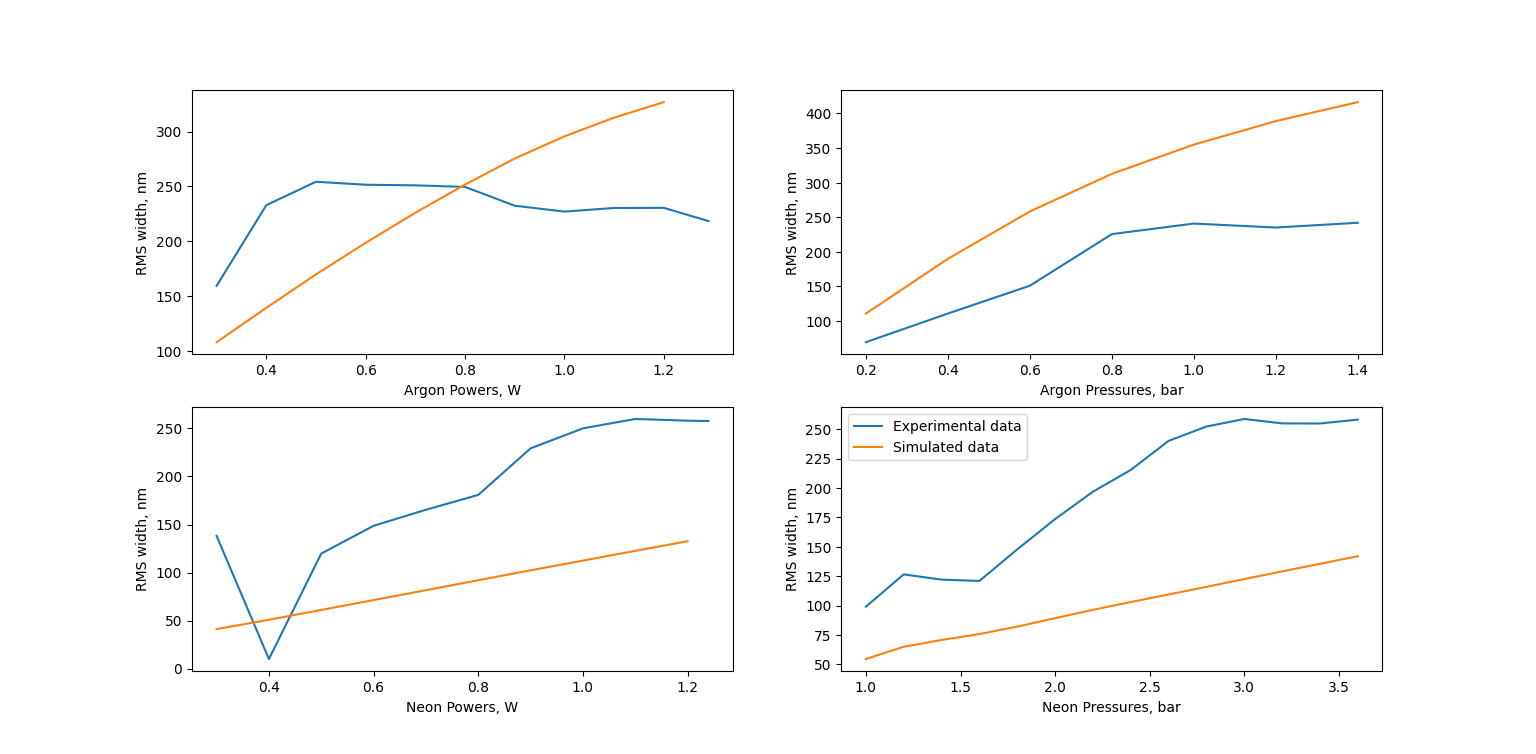
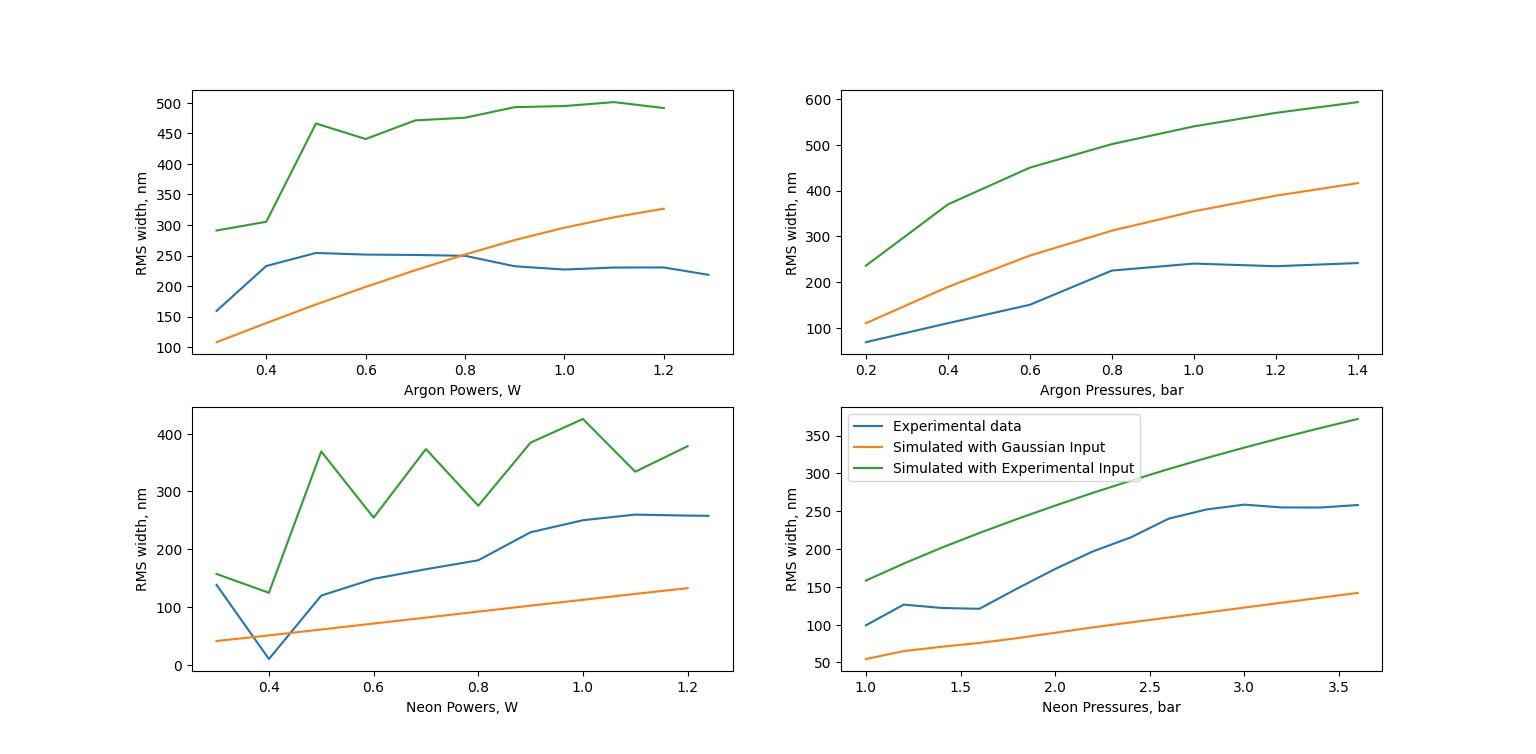
compared widths for simulated and experimental data

diff --git a/HCF sim/Python/experiments/simulations/compare_widths.py b/HCF sim/Python/experiments/simulations/compare_widths.py
@@ -1,7 +1,7 @@
 import sys
 import matplotlib.pyplot as plt
 import pandas as pd
-sys.path.append('C:\\Users\\iammo\\Documents\\Optimising-Field-Synthesiser\\HCF sim\\Python\\building datasets\\')
+sys.path.append('C:\\Users\\iammo\\Documents\\Optimising-Field-Synthesiser\\HCF sim\\Python\\building_datasets\\')
 from rms_width import *
 
 filepath = "C:\\Users\\iammo\\Documents\\Optimising-Field-Synthesiser\\HCF sim\\Python\\experiments\\"
@@ -143,11 +143,17 @@ Ne_sim_gauss_PowerScan_widths = []
 Ar_sim_gauss_PressureScan_widths = []
 Ne_sim_gauss_PressureScan_widths = []
 
+Ar_sim_pulse_PowerScan_widths = []
+Ne_sim_pulse_PowerScan_widths = []
+Ar_sim_pulse_PressureScan_widths = []
+Ne_sim_pulse_PressureScan_widths = []
+
 Ar_sim_powers = [0.3, 0.4, 0.5, 0.6, 0.7, 0.8, 0.9, 1.0, 1.1, 1.2]
 Ne_sim_powers = [0.3, 0.4, 0.5, 0.6, 0.7, 0.8, 0.9, 1.0, 1.1, 1.2]
 Ar_sim_pressures = [0.2, 0.4, 0.6, 0.8, 1.0, 1.2, 1.4]
 Ne_sim_pressures = [1.0, 1.2, 1.4, 1.6, 1.8, 2.0, 2.2, 2.4, 2.6, 2.8, 3.0, 3.2, 3.4, 3.6]
 
+# Gaussian input simulations
 # Argon power scan
 df = pd.read_csv(filepath+"simulations\\data\\gaussian_input\\Ar_PowerScan_0.3")
 Ar_sim_gauss_PowerScan_widths.append(rms_width(df.iloc[:,0], df.iloc[:,1]))
@@ -235,8 +241,100 @@ df = pd.read_csv(filepath+"simulations\\data\\gaussian_input\\Ne_PressureScan_3.
 Ne_sim_gauss_PressureScan_widths.append(rms_width(df.iloc[:,0], df.iloc[:,1]))
 df = pd.read_csv(filepath+"simulations\\data\\gaussian_input\\Ne_PressureScan_3.4")
 Ne_sim_gauss_PressureScan_widths.append(rms_width(df.iloc[:,0], df.iloc[:,1]))
-df = pd.read_csv(filepath+"simulations\\data\\gaussian_input\\gaussian_input\\Ne_PressureScan_3.6")
+df = pd.read_csv(filepath+"simulations\\data\\gaussian_input\\Ne_PressureScan_3.6")
 Ne_sim_gauss_PressureScan_widths.append(rms_width(df.iloc[:,0], df.iloc[:,1]))
+
+
+# Experimental input pulse simulations
+# Argon power scan
+df = pd.read_csv(filepath+"simulations\\data\\pulse_input\\Ar_PowerScan_0.3")
+Ar_sim_pulse_PowerScan_widths.append(rms_width(df.iloc[:,0], df.iloc[:,1]))
+df = pd.read_csv(filepath+"simulations\\data\\pulse_input\\Ar_PowerScan_0.4")
+Ar_sim_pulse_PowerScan_widths.append(rms_width(df.iloc[:,0], df.iloc[:,1]))
+df = pd.read_csv(filepath+"simulations\\data\\pulse_input\\Ar_PowerScan_0.5")
+Ar_sim_pulse_PowerScan_widths.append(rms_width(df.iloc[:,0], df.iloc[:,1]))
+df = pd.read_csv(filepath+"simulations\\data\\pulse_input\\Ar_PowerScan_0.6")
+Ar_sim_pulse_PowerScan_widths.append(rms_width(df.iloc[:,0], df.iloc[:,1]))
+df = pd.read_csv(filepath+"simulations\\data\\pulse_input\\Ar_PowerScan_0.7")
+Ar_sim_pulse_PowerScan_widths.append(rms_width(df.iloc[:,0], df.iloc[:,1]))
+df = pd.read_csv(filepath+"simulations\\data\\pulse_input\\Ar_PowerScan_0.8")
+Ar_sim_pulse_PowerScan_widths.append(rms_width(df.iloc[:,0], df.iloc[:,1]))
+df = pd.read_csv(filepath+"simulations\\data\\pulse_input\\Ar_PowerScan_0.9")
+Ar_sim_pulse_PowerScan_widths.append(rms_width(df.iloc[:,0], df.iloc[:,1]))
+df = pd.read_csv(filepath+"simulations\\data\\pulse_input\\Ar_PowerScan_1.0")
+Ar_sim_pulse_PowerScan_widths.append(rms_width(df.iloc[:,0], df.iloc[:,1]))
+df = pd.read_csv(filepath+"simulations\\data\\pulse_input\\Ar_PowerScan_1.1")
+Ar_sim_pulse_PowerScan_widths.append(rms_width(df.iloc[:,0], df.iloc[:,1]))
+df = pd.read_csv(filepath+"simulations\\data\\pulse_input\\Ar_PowerScan_1.2")
+Ar_sim_pulse_PowerScan_widths.append(rms_width(df.iloc[:,0], df.iloc[:,1]))
+
+# Neon power scan
+df = pd.read_csv(filepath+"simulations\\data\\pulse_input\\Ne_PowerScan_0.3")
+Ne_sim_pulse_PowerScan_widths.append(rms_width(df.iloc[:,0], df.iloc[:,1]))
+df = pd.read_csv(filepath+"simulations\\data\\pulse_input\\Ne_PowerScan_0.4")
+Ne_sim_pulse_PowerScan_widths.append(rms_width(df.iloc[:,0], df.iloc[:,1]))
+df = pd.read_csv(filepath+"simulations\\data\\pulse_input\\Ne_PowerScan_0.5")
+Ne_sim_pulse_PowerScan_widths.append(rms_width(df.iloc[:,0], df.iloc[:,1]))
+df = pd.read_csv(filepath+"simulations\\data\\pulse_input\\Ne_PowerScan_0.6")
+Ne_sim_pulse_PowerScan_widths.append(rms_width(df.iloc[:,0], df.iloc[:,1]))
+df = pd.read_csv(filepath+"simulations\\data\\pulse_input\\Ne_PowerScan_0.7")
+Ne_sim_pulse_PowerScan_widths.append(rms_width(df.iloc[:,0], df.iloc[:,1]))
+df = pd.read_csv(filepath+"simulations\\data\\pulse_input\\Ne_PowerScan_0.8")
+Ne_sim_pulse_PowerScan_widths.append(rms_width(df.iloc[:,0], df.iloc[:,1]))
+df = pd.read_csv(filepath+"simulations\\data\\pulse_input\\Ne_PowerScan_0.9")
+Ne_sim_pulse_PowerScan_widths.append(rms_width(df.iloc[:,0], df.iloc[:,1]))
+df = pd.read_csv(filepath+"simulations\\data\\pulse_input\\Ne_PowerScan_1.0")
+Ne_sim_pulse_PowerScan_widths.append(rms_width(df.iloc[:,0], df.iloc[:,1]))
+df = pd.read_csv(filepath+"simulations\\data\\pulse_input\\Ne_PowerScan_1.1")
+Ne_sim_pulse_PowerScan_widths.append(rms_width(df.iloc[:,0], df.iloc[:,1]))
+df = pd.read_csv(filepath+"simulations\\data\\pulse_input\\Ne_PowerScan_1.2")
+Ne_sim_pulse_PowerScan_widths.append(rms_width(df.iloc[:,0], df.iloc[:,1]))
+
+# Argon pressure scan
+df = pd.read_csv(filepath+"simulations\\data\\pulse_input\\Ar_PressureScan_0.2")
+Ar_sim_pulse_PressureScan_widths.append(rms_width(df.iloc[:,0], df.iloc[:,1]))
+df = pd.read_csv(filepath+"simulations\\data\\pulse_input\\Ar_PressureScan_0.4")
+Ar_sim_pulse_PressureScan_widths.append(rms_width(df.iloc[:,0], df.iloc[:,1]))
+df = pd.read_csv(filepath+"simulations\\data\\pulse_input\\Ar_PressureScan_0.6")
+Ar_sim_pulse_PressureScan_widths.append(rms_width(df.iloc[:,0], df.iloc[:,1]))
+df = pd.read_csv(filepath+"simulations\\data\\pulse_input\\Ar_PressureScan_0.8")
+Ar_sim_pulse_PressureScan_widths.append(rms_width(df.iloc[:,0], df.iloc[:,1]))
+df = pd.read_csv(filepath+"simulations\\data\\pulse_input\\Ar_PressureScan_1.0")
+Ar_sim_pulse_PressureScan_widths.append(rms_width(df.iloc[:,0], df.iloc[:,1]))
+df = pd.read_csv(filepath+"simulations\\data\\pulse_input\\Ar_PressureScan_1.2")
+Ar_sim_pulse_PressureScan_widths.append(rms_width(df.iloc[:,0], df.iloc[:,1]))
+df = pd.read_csv(filepath+"simulations\\data\\pulse_input\\Ar_PressureScan_1.4")
+Ar_sim_pulse_PressureScan_widths.append(rms_width(df.iloc[:,0], df.iloc[:,1]))
+
+# Neon pressure scan
+df = pd.read_csv(filepath+"simulations\\data\\pulse_input\\Ne_PressureScan_1.0")
+Ne_sim_pulse_PressureScan_widths.append(rms_width(df.iloc[:,0], df.iloc[:,1]))
+df = pd.read_csv(filepath+"simulations\\data\\pulse_input\\Ne_PressureScan_1.2")
+Ne_sim_pulse_PressureScan_widths.append(rms_width(df.iloc[:,0], df.iloc[:,1]))
+df = pd.read_csv(filepath+"simulations\\data\\pulse_input\\Ne_PressureScan_1.4")
+Ne_sim_pulse_PressureScan_widths.append(rms_width(df.iloc[:,0], df.iloc[:,1]))
+df = pd.read_csv(filepath+"simulations\\data\\pulse_input\\Ne_PressureScan_1.6")
+Ne_sim_pulse_PressureScan_widths.append(rms_width(df.iloc[:,0], df.iloc[:,1]))
+df = pd.read_csv(filepath+"simulations\\data\\pulse_input\\Ne_PressureScan_1.8")
+Ne_sim_pulse_PressureScan_widths.append(rms_width(df.iloc[:,0], df.iloc[:,1]))
+df = pd.read_csv(filepath+"simulations\\data\\pulse_input\\Ne_PressureScan_2.0")
+Ne_sim_pulse_PressureScan_widths.append(rms_width(df.iloc[:,0], df.iloc[:,1]))
+df = pd.read_csv(filepath+"simulations\\data\\pulse_input\\Ne_PressureScan_2.2")
+Ne_sim_pulse_PressureScan_widths.append(rms_width(df.iloc[:,0], df.iloc[:,1]))
+df = pd.read_csv(filepath+"simulations\\data\\pulse_input\\Ne_PressureScan_2.4")
+Ne_sim_pulse_PressureScan_widths.append(rms_width(df.iloc[:,0], df.iloc[:,1]))
+df = pd.read_csv(filepath+"simulations\\data\\pulse_input\\Ne_PressureScan_2.6")
+Ne_sim_pulse_PressureScan_widths.append(rms_width(df.iloc[:,0], df.iloc[:,1]))
+df = pd.read_csv(filepath+"simulations\\data\\pulse_input\\Ne_PressureScan_2.8")
+Ne_sim_pulse_PressureScan_widths.append(rms_width(df.iloc[:,0], df.iloc[:,1]))
+df = pd.read_csv(filepath+"simulations\\data\\pulse_input\\Ne_PressureScan_3.0")
+Ne_sim_pulse_PressureScan_widths.append(rms_width(df.iloc[:,0], df.iloc[:,1]))
+df = pd.read_csv(filepath+"simulations\\data\\pulse_input\\Ne_PressureScan_3.2")
+Ne_sim_pulse_PressureScan_widths.append(rms_width(df.iloc[:,0], df.iloc[:,1]))
+df = pd.read_csv(filepath+"simulations\\data\\pulse_input\\Ne_PressureScan_3.4")
+Ne_sim_pulse_PressureScan_widths.append(rms_width(df.iloc[:,0], df.iloc[:,1]))
+df = pd.read_csv(filepath+"simulations\\data\\pulse_input\\Ne_PressureScan_3.6")
+Ne_sim_pulse_PressureScan_widths.append(rms_width(df.iloc[:,0], df.iloc[:,1]))
 
 #####################################################################################################################
 # Plot results
@@ -254,10 +352,15 @@ axs[1,1].plot(Ne_pressures, Ne_PressureScan_widths, label='Experimental data')
 axs[1,1].set_xlabel('Neon Pressures, bar')
 axs[1,1].set_ylabel('RMS width, nm')
 
-axs[0,0].plot(Ar_sim_powers, Ar_sim_PowerScan_widths)
-axs[0,1].plot(Ar_sim_pressures, Ar_sim_PressureScan_widths)
-axs[1,0].plot(Ne_sim_powers, Ne_sim_PowerScan_widths)
-axs[1,1].plot(Ne_sim_pressures, Ne_sim_PressureScan_widths, label='Simulated data')
+axs[0,0].plot(Ar_sim_powers, Ar_sim_gauss_PowerScan_widths)
+axs[0,1].plot(Ar_sim_pressures, Ar_sim_gauss_PressureScan_widths)
+axs[1,0].plot(Ne_sim_powers, Ne_sim_gauss_PowerScan_widths)
+axs[1,1].plot(Ne_sim_pressures, Ne_sim_gauss_PressureScan_widths, label='Simulated with Gaussian Input')
+
+axs[0,0].plot(Ar_sim_powers, Ar_sim_pulse_PowerScan_widths)
+axs[0,1].plot(Ar_sim_pressures, Ar_sim_pulse_PressureScan_widths)
+axs[1,0].plot(Ne_sim_powers, Ne_sim_pulse_PowerScan_widths)
+axs[1,1].plot(Ne_sim_pressures, Ne_sim_pulse_PressureScan_widths, label='Simulated with Experimental Input')
 
 plt.legend()
 plt.show()
